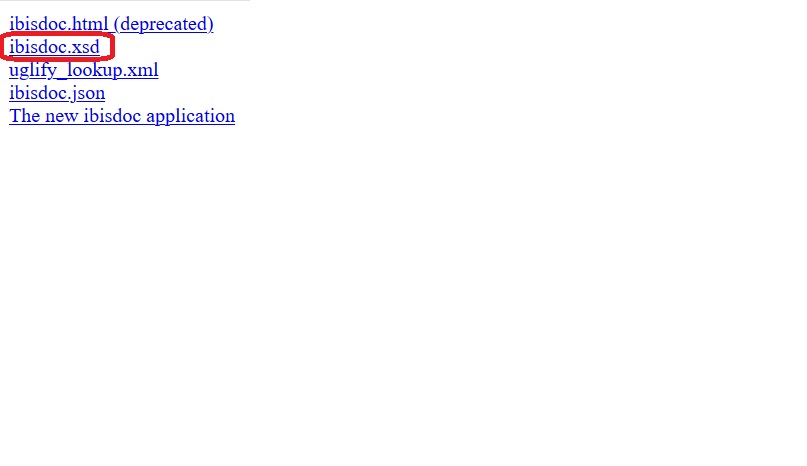
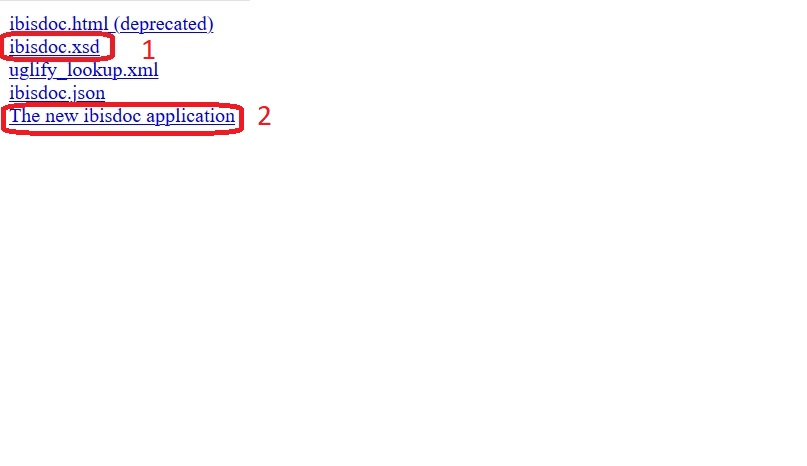
Explain Frank Doc and remove references to ibis4example

Changed region(s): [[0.0, 0.03, 0.3408, 0.3004]]

diff --git a/docs/source/gettingStarted/configurationManagement1.rst b/docs/source/gettingStarted/configurationManagement1.rst
@@ -8,7 +8,7 @@ Introduction
 
 In subsections :ref:`helloIbis` to :ref:`gettingStartedLarva`, you got a basic understanding of the Frank!Framework. You used the Tomcat4Ibis project to run the Frank!Framework and you worked with the example configurations in that project. You learned the basic concepts by studying these configurations. You ran the framework and learned how configurations can be executed and tested.
 
-In this section you start your own project and you build your first configuration. Frank configurations are written in XML. They satisfy an XML Schema that can be downloaded from the Frank!Framework. You will learn how to use this schema when you type your Frank configuration. You will have automatic code completion and tooltips in your text editor.
+In this section you start your own project and you build your first configuration. You will gain access to an additional source of documentation, the Frank!Doc, which you can reach through the web interface of the Frank!Framework. Frank configurations are written in XML. They satisfy an XML Schema, the Frank configuration schema, which can be downloaded from the Frank!Framework. You will learn how to use this schema when you type your Frank configuration. You will have automatic code completion and tooltips in your text editor.
 
 Initialize your project
 -----------------------
@@ -59,7 +59,12 @@ After installing Tomcat4Ibis, you should have a folder ``projects`` with a folde
      jdbc.migrator.active=true
      stub4testtool.configuration=true
 
-#. You will download the Frank configuration schema now. Please start the Frank!Framework by running ``tomcat4ibis\tomcat4ibis.bat`` (Windows) or ``tomcat4ibis/tomcat4ibis.sh`` (Linux).
+Frank configuration schema
+--------------------------
+
+You will download the Frank configuration schema now.
+
+8. Please start the Frank!Framework by running ``tomcat4ibis\tomcat4ibis.bat`` (Windows) or ``tomcat4ibis/tomcat4ibis.sh`` (Linux).
 #. Click "Webservices" as shown in the figure below:
 
    .. image:: webservicesMenu.jpg
@@ -68,11 +73,24 @@ After installing Tomcat4Ibis, you should have a folder ``projects`` with a folde
 
    .. image:: webservicesPage.jpg
 
-#. Right-click "ibisdoc.xsd" as shown below:
+#. Right-click "ibisdoc.xsd" (number 1 in the picture below):
 
    .. image:: ibisDocFiles.jpg
 
 #. A menu appears that lets you choose what to do with "ibisdoc.xsd". Please choose to download it. You will need it later.
+
+Frank!Doc
+---------
+
+From the screen shown at step 11, you can access the Frank!Doc, an additional source of documentation. It lets you search pipes, senders and receivers and it gives you detailed information.
+
+13. In the picture of step 11, press "The new ibisdoc application" (number 2). The following screen appears:
+
+     .. image:: frankDoc.jpg
+
+#. As an example, we want to see detailed information about the ``<FixedResultPipe>``. To the top-left, click "Pipes" (number 1). To the bottom-left, all available pipes are listed.
+#. Click "FixedResultPipe" (number 2). To the right, a page with detailed information appears. To the top it confirmst that it is about FixedResultPipe (number 3). You see the attribute you know already, "returnString" (number 4).
+#. Each pipe, sender or receiver corresponds to a Java class in the source code of the Frank!Framework. You can see the Javadoc documentation of this class by clicking "Javadoc" (number 5). This information is written for Java developers, but it may be useful sometimes for Frank developers.
 
 Add your configuration
 ----------------------

diff --git a/docs/source/gettingStarted/horizonTransactions.rst b/docs/source/gettingStarted/horizonTransactions.rst
@@ -37,7 +37,7 @@ The value ``Mandatory`` for example requires that a transaction
 is expected to exist when pipeline execution starts; the pipeline
 will fail otherwise. This value is useful when
 you want to execute multiple adapters within a single transaction.
-See https://ibis4example.ibissource.org/iaf/ibisdoc/ for details.
+See the Frank!Doc (section :ref:`horizonsMultipleFiles`) for details.
 
 This completes the implementation of the requirements of section
 :ref:`horizonsInterfaces` . We have a REST HTTP service listening
